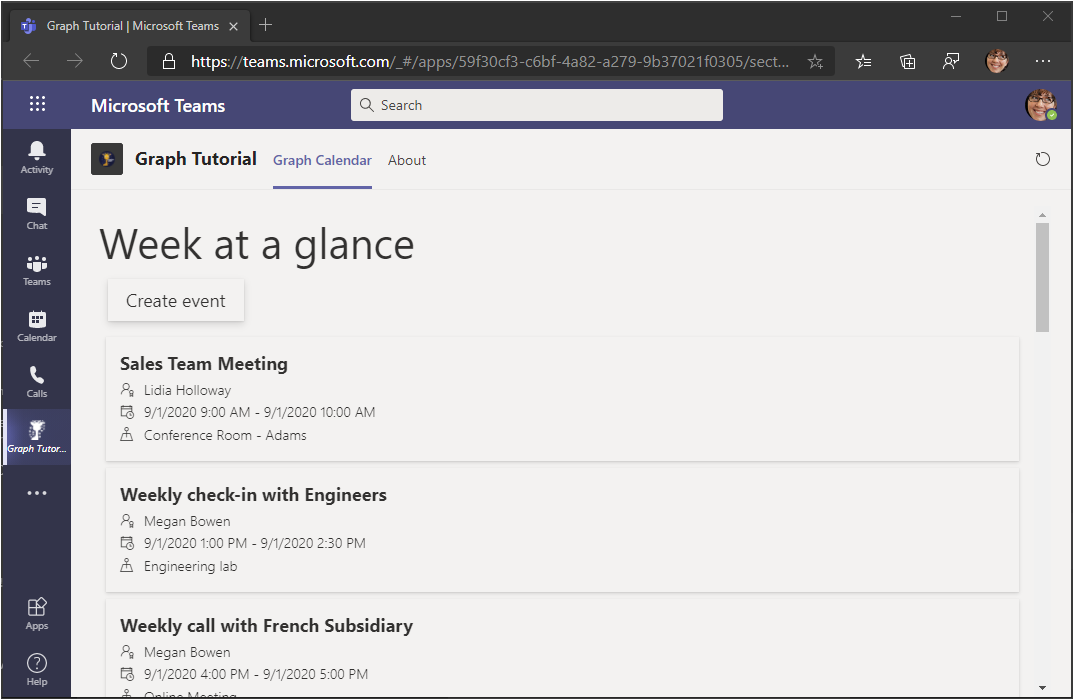
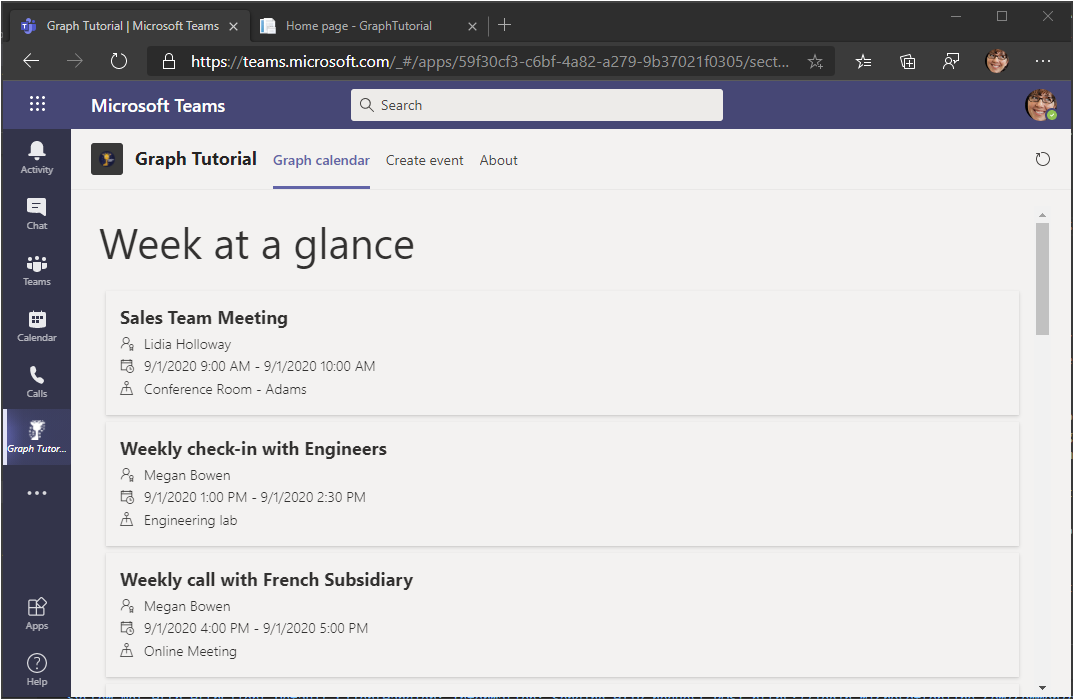
Completed create event step

diff --git a/demo/GraphTutorial/wwwroot/css/site.css b/demo/GraphTutorial/wwwroot/css/site.css
@@ -6,14 +6,8 @@
   --border-style: none;
 }
 
-.tab-button {
-  display: inline-block;
-  margin: .5em;
-  padding: .5em 1em;
-  border-style: var(--border-style);
-  border-width: 1px;
-  border-color: #fff;
-  cursor: pointer;
+.tab-title {
+  margin-bottom: .5em;
 }
 
 .event-card {
@@ -37,5 +31,39 @@
 
 .event-card .ms-Icon--MapPin {
   top: 2px;
+}
+
+.form-container {
+  max-width: 720px;
+}
+
+.form-label {
+  display: block;
+  margin-bottom: .25em;
+}
+
+.form-input {
+  width: 100%;
+  margin-bottom: .25em;
+  padding: .5em;
+  box-sizing: border-box;
+}
+
+.form-button {
+  padding: .5em;
+}
+
+.result-panel {
+  display: none;
+  padding: 1em;
+  margin: 1em;
+}
+
+.error-msg {
+  color: red;
+}
+
+.success-msg {
+  color: green;
 }
 /* </CssSnippet> */

diff --git a/demo/GraphTutorial/Controllers/CalendarController.cs b/demo/GraphTutorial/Controllers/CalendarController.cs
@@ -13,6 +13,7 @@ using Microsoft.Identity.Web;
 using Microsoft.Identity.Web.Resource;
 using Microsoft.Graph;
 using TimeZoneConverter;
+using GraphTutorial.Models;
 
 namespace GraphTutorial.Controllers
 {
@@ -97,10 +98,10 @@ namespace GraphTutorial.Controllers
             {
                 _logger.LogError(ex, "Consent required");
                 // This exception indicates consent is required.
-                // Return a 401 with "consent_required" in the body
+                // Return a 403 with "consent_required" in the body
                 // to signal to the tab it needs to prompt for consent
                 HttpContext.Response.ContentType = "text/plain";
-                HttpContext.Response.StatusCode = (int)HttpStatusCode.Unauthorized;
+                HttpContext.Response.StatusCode = (int)HttpStatusCode.Forbidden;
                 await HttpContext.Response.WriteAsync("consent_required");
                 return null;
             }
@@ -129,5 +130,105 @@ namespace GraphTutorial.Controllers
             return TimeZoneInfo.ConvertTimeToUtc(unspecifiedStart, userTimeZone);
         }
         // </GetStartOfWeekSnippet>
+
+        // <PostSnippet>
+        [HttpPost]
+        public async Task<string> Post(NewEvent newEvent)
+        {
+            HttpContext.VerifyUserHasAnyAcceptedScope(apiScopes);
+
+            try
+            {
+                // Get the user's mailbox settings
+                var me = await _graphClient.Me
+                    .Request()
+                    .Select(u => new {
+                        u.MailboxSettings
+                    })
+                    .GetAsync();
+
+                // Create a Graph Event
+                var graphEvent = new Event
+                {
+                    Subject = newEvent.Subject,
+                    Start = new DateTimeTimeZone
+                    {
+                        DateTime = newEvent.Start,
+                        TimeZone = me.MailboxSettings.TimeZone
+                    },
+                    End = new DateTimeTimeZone
+                    {
+                        DateTime = newEvent.End,
+                        TimeZone = me.MailboxSettings.TimeZone
+                    }
+                };
+
+                // If there are attendees, add them
+                if (!string.IsNullOrEmpty(newEvent.Attendees))
+                {
+                    var attendees = new List<Attendee>();
+                    var emailArray = newEvent.Attendees.Split(';');
+                    foreach (var email in emailArray)
+                    {
+                        attendees.Add(new Attendee
+                        {
+                            Type = AttendeeType.Required,
+                            EmailAddress = new EmailAddress
+                            {
+                                Address = email
+                            }
+                        });
+                    }
+
+                    graphEvent.Attendees = attendees;
+                }
+
+                // If there is a body, add it
+                if (!string.IsNullOrEmpty(newEvent.Body))
+                {
+                    graphEvent.Body = new ItemBody
+                    {
+                        ContentType = BodyType.Text,
+                        Content = newEvent.Body
+                    };
+                }
+
+                // Create the event
+                await _graphClient.Me
+                    .Events
+                    .Request()
+                    .AddAsync(graphEvent);
+
+                return "success";
+            }
+            catch (MicrosoftIdentityWebChallengeUserException ex)
+            {
+                _logger.LogError(ex, "Consent required");
+                // This exception indicates consent is required.
+                // Return a 403 with "consent_required" in the body
+                // to signal to the tab it needs to prompt for consent
+                HttpContext.Response.ContentType = "text/plain";
+                HttpContext.Response.StatusCode = (int)HttpStatusCode.Forbidden;
+                await HttpContext.Response.WriteAsync("consent_required");
+                return null;
+            }
+            catch (ServiceException ex)
+            {
+                _logger.LogError(ex, "Error occurred");
+                HttpContext.Response.ContentType = "text/plain";
+                HttpContext.Response.StatusCode = (int)ex.StatusCode;
+                await HttpContext.Response.WriteAsync(ex.Error.ToString());
+                return null;
+            }
+            catch (Exception ex)
+            {
+                _logger.LogError(ex, "Error occurred");
+                HttpContext.Response.ContentType = "text/plain";
+                HttpContext.Response.StatusCode = (int)HttpStatusCode.InternalServerError;
+                await HttpContext.Response.WriteAsync(ex.ToString());
+                return null;
+            }
+        }
+        // </PostSnippet>
     }
 }

diff --git a/demo/GraphTutorial/Models/NewEvent.cs b/demo/GraphTutorial/Models/NewEvent.cs
@@ -1,0 +1,16 @@
+// Copyright (c) Microsoft Corporation.
+// Licensed under the MIT license.
+
+// <NewEventSnippet>
+namespace GraphTutorial.Models
+{
+    public class NewEvent
+    {
+        public string Subject { get; set; }
+        public string Attendees { get; set; }
+        public string Start { get; set; }
+        public string End { get; set; }
+        public string Body { get; set; }
+    }
+}
+// </NewEventSnippet>

diff --git a/tutorial/07-create-event.md b/tutorial/07-create-event.md
@@ -1,0 +1,35 @@
+<!-- markdownlint-disable MD002 MD041 -->
+
+In this section you will add the ability to create events on the user's calendar.
+
+## Create the new event tab
+
+1. Create a new file in the **./Pages** directory named **NewEvent.cshtml** and add the following code.
+
+    :::code language="razor" source="../demo/GraphTutorial/Pages/NewEvent.cshtml":::
+
+    This implements a simple form, and adds JavaScript to post the form data to the Web API.
+
+## Implement the Web API
+
+1. Create a new directory named **Models** in the root of the project.
+
+1. Create a new file in the **./Models** directory named **NewEvent.cs** and add the following code.
+
+    :::code language="csharp" source="../demo/GraphTutorial/Models/NewEvent.cs" id="NewEventSnippet":::
+
+1. Open **./Controllers/CalendarController.cs** and add the following `using` statement at the top of the file.
+
+    ```csharp
+    using GraphTutorial.Models;
+    ```
+
+1. Add the following function to the **CalendarController** class.
+
+    :::code language="csharp" source="../demo/GraphTutorial/Controllers/CalendarController.cs" id="PostSnippet":::
+
+    This allows an HTTP POST to the Web API with the fields of the form.
+
+1. Save all of your changes and restart the application. Refresh the app in Microsoft Teams, and select the **Create event** tab. Fill out the form and select **Create** to add an event to the user's calendar.
+
+    ![A screenshot of the Create event tab](images/create-event.png)

diff --git a/tutorial/05-add-aad-auth.md b/tutorial/05-add-aad-auth.md
@@ -189,10 +189,10 @@ Start by adding the Microsoft Identity platform services to the application.
                 {
                     _logger.LogError(ex, "Consent required");
                     // This exception indicates consent is required.
-                    // Return a 401 with "consent_required" in the body
+                    // Return a 403 with "consent_required" in the body
                     // to signal to the tab it needs to prompt for consent
                     HttpContext.Response.ContentType = "text/plain";
-                    HttpContext.Response.StatusCode = (int)HttpStatusCode.Unauthorized;
+                    HttpContext.Response.StatusCode = (int)HttpStatusCode.Forbidden;
                     await HttpContext.Response.WriteAsync("consent_required");
                     return null;
                 }

diff --git a/tutorial/06-calendar-view.md b/tutorial/06-calendar-view.md
@@ -39,14 +39,6 @@ Now you can display the list of events in a more user friendly way.
 
     :::code language="javascript" source="../demo/GraphTutorial/Pages/Index.cshtml" id="RenderCalendarSnippet":::
 
-1. Add the following placeholder function inside the `<script>` tag.
-
-    ```javascript
-    function loadNewEventForm() {
-      alert('clicked');
-    }
-    ```
-
 1. Save your changes and restart the app. Refresh the tab in Microsoft Teams. The app displays events on the user's calendar.
 
     ![A screenshot of the app displaying the user's calendar](images/calendar-view.png)
